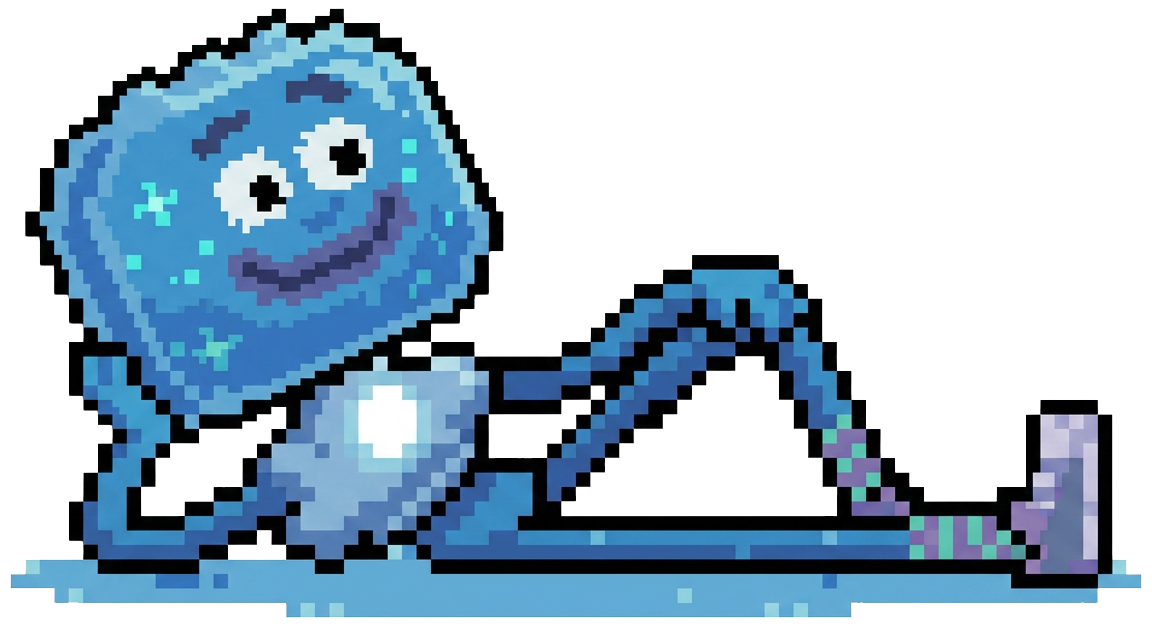
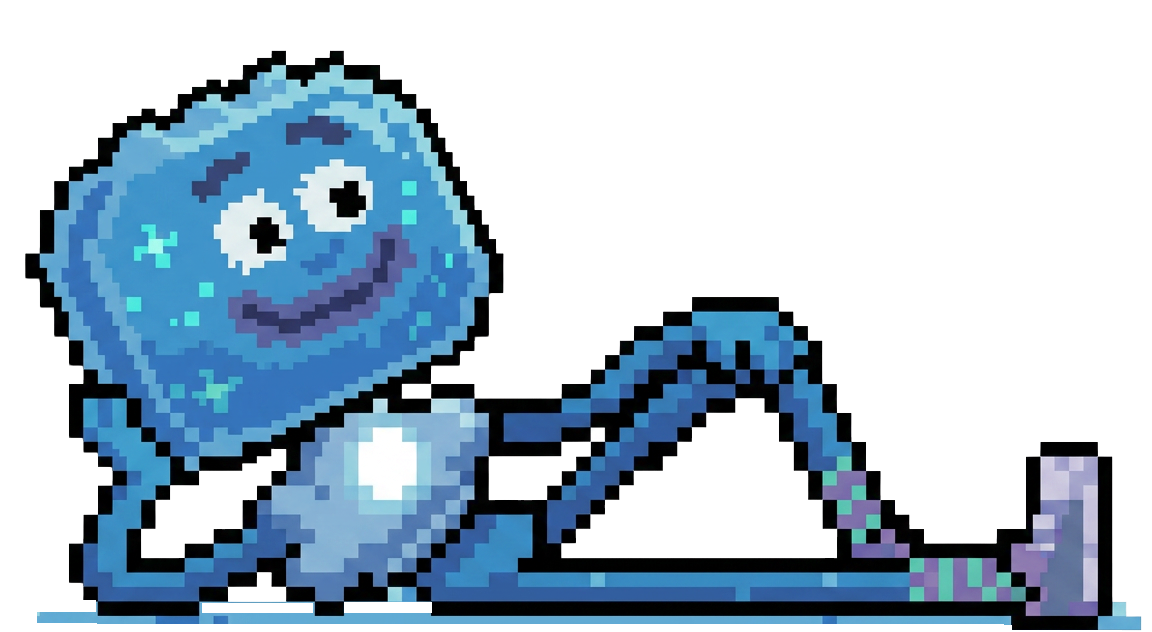
Remove code-level vertical offset for lie-down pose
Character was repositioned lower directly inside the updated pose_lay.png, so the extra +10px offset in code would have doubled it.

diff --git a/vectra-crystal-game/index.html b/vectra-crystal-game/index.html
@@ -2618,7 +2618,7 @@
       const layW = 100;
       const layH = layW * (dzisiekLayImg.naturalHeight/dzisiekLayImg.naturalWidth);
       const layDrawX = centerX - layW/2;
-      const layDrawY = sy + player.h - layH + 10;
+      const layDrawY = sy + player.h - layH;
       ctx.save();
       ctx.translate(centerX, 0);
       ctx.scale(player.facing, 1);
